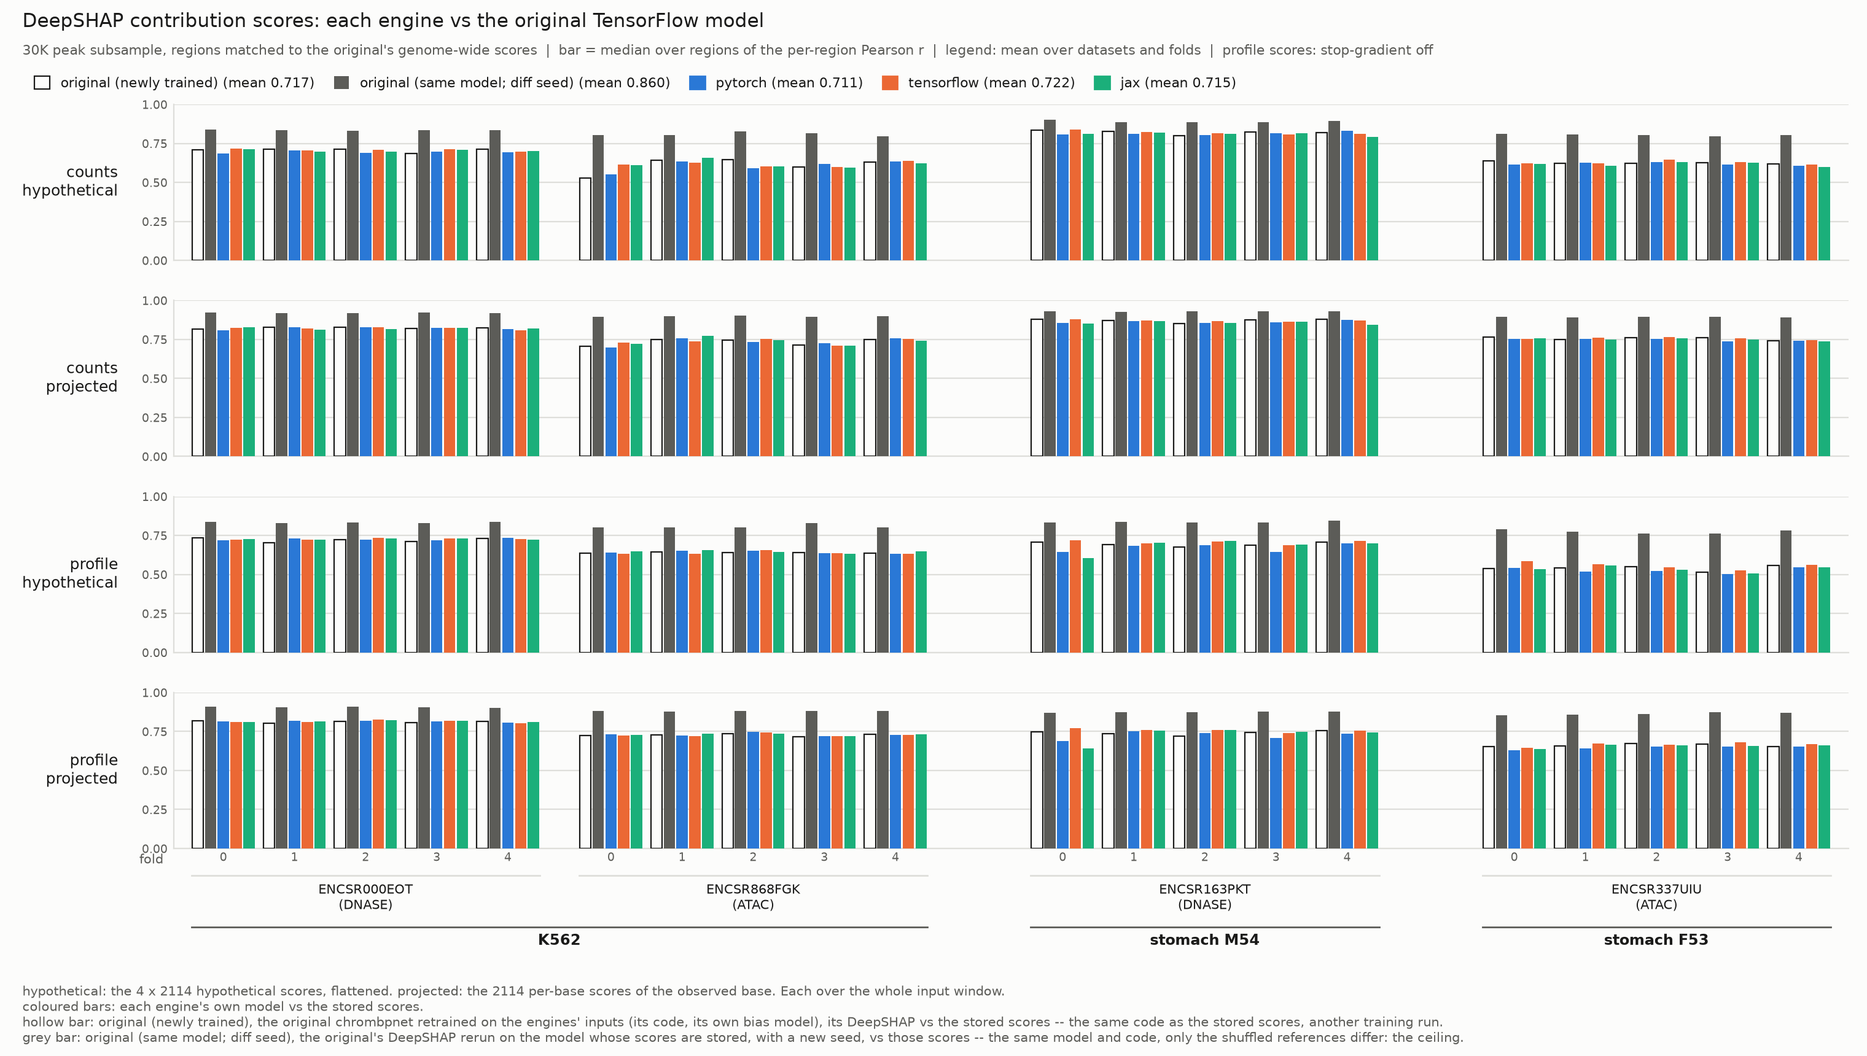
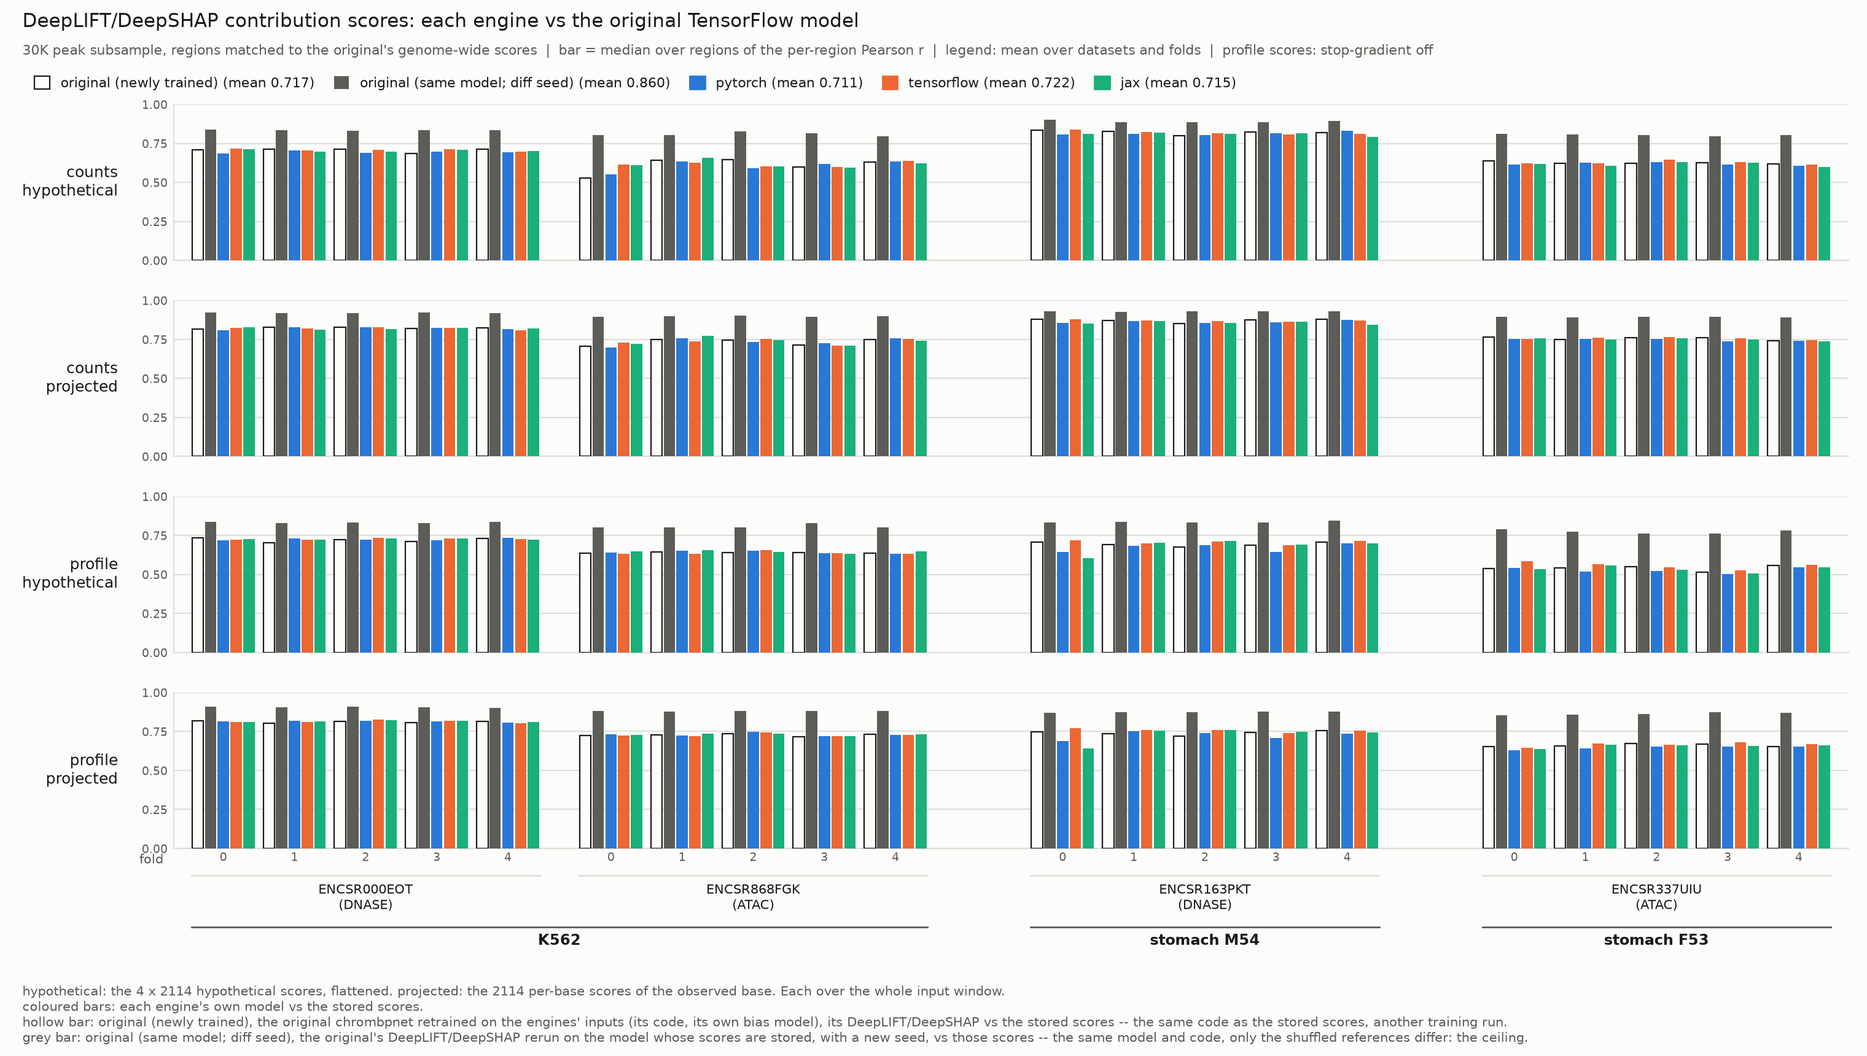
Draft v3: Updated figures and minor changes.

Changed region(s): [[0.2188, 0.9552, 0.8125, 0.986], [0.0312, 0.0, 0.4688, 0.0308]]

diff --git a/content/blogs/2026-015/index.md b/content/blogs/2026-015/index.md
@@ -151,19 +151,19 @@ __Problem__: Anthropic’s optimizations focused on drop-in optimization kits th
 
 Below is a summary of changes applied in the [optimization kit](https://github.com/anthropics/uplifting-biomolecular-modeling/tree/main/chrombpnet) from the model release of Fable/Mythos 5.1:
 
-| Kit optimization | What it does | Measured effect (in original `chrombpnet`) | In `chrombpnet-refactor` |
-|---|---|---|---|
-| `prefetch` | Reads the genome through a memory map, and one-hot encodes with an int8 lookup table | Featurization 15x faster (L40S: 3.6 s → 0.2 s; H200: 3.6 s → 0.2 s) | Applied |
-| `metrics_stage` | Computes the profile JSD for all regions at once, with the same random stream | Metrics 10x faster (L40S: 9.8 s → 1.0 s; H200: 9.1 s → 0.9 s) | Applied (identical values) |
-| `bigwig_writer`, side processes | Writes the bigWig and metrics in a separate process, overlapping the GPU forward | The bigWig write moved under the forward (L40S: 23 s → 0.6 s left to wait for; H200: 22 s → 0.6 s) | Applied: a worker process writes each model's bigWig and metrics while the next model predicts |
-| `preimport` | Imports the finish stage's libraries (SciPy, Matplotlib) on a background thread during the forward | 1.3-1.8 s of imports moved under the forward (stock's start-up, which imports TensorFlow, already loads most of them: 0.4 s left at its finish) | Applied |
-| `exit_fast` | Exits without interpreter and CUDA teardown once outputs are verified | Teardown skipped (L40S and H200: 1.2 s → 0 s) | Applied, after every output is verified and synced to disk |
-| `forward_route` (`chrombpnet_k1` Triton kernels) | Fused, fp32-exact Triton forward | The forward 2.3x faster on an L40S (34 s → 15 s, `exact`), 2.6x on an H200 (25 s → 9.5 s, `fast`) [in `chrombpnet-refactor`: no end-to-end speedup alongside the kit's other changes, 121 s with them and 120 s without on an L40S, 114 s and 106 s on an H200; they match eager fp32 to 1.0e-5 on the profile, where the default TF32 convolutions differ from an fp64 reference by 1.1e-3] | Optional, `--predict-fused-kernel` |
-| `h5_writer` | Compresses the predictions HDF5's chunks on a thread pool and writes them directly | The HDF5 write 17x faster on the critical path (L40S: 3.7 s → 0.2 s; H200: 3.4 s → 0.2 s), its chunks compressed during the forward | Applied, at this package's gzip level 9 with the byte-shuffle filter, to every large numeric HDF5 dataset: one 20,000-region predictions file 7.7x faster to write (L40S node: 23.8 s → 3.1 s), same size and values |
-| `malloc_env` | glibc allocator settings: no `mmap`, no heap trimming, a 512 MiB top pad | – | Not applied: the speed-up is moderate (`pred_bw` 1.06x faster on an L40S, 76 s → 72 s; 1.12x on an H200, 66 s → 59 s), but peak memory doubles (2,000 peaks, three models: 5.0 GB → 9.8-11.7 GB), because with no `mmap` and no trimming every large array is carved out of one heap that never shrinks, and the space an array of one size frees is not reused by the next of another size, so the heap fragments and keeps growing |
-| `warmup`, `jit_cache`, `native_dilation`, `tail` | One forward per batch shape at load time; a CUDA JIT-cache tarball for TensorFlow's PTX; Keras dilated convolutions as native `conv2d`; the last batch padded to the full shape | – | Not applicable: TensorFlow-specific (`jit_cache`, `native_dilation`, and `tail`, which avoids TensorFlow compiling a new shape), or no time saved (`warmup` moves the first call's cost to load time) |
-| **All adopted kit changes** (excluding the Triton forward) | | **1.7x on an L40S (`fast`: 85 s → 50 s); 1.6x on an H100 (the kit's own figure) [in `chrombpnet-refactor`: 1.3x on an L40S (155 s → 120 s), 1.2x on an H200 (128 s → 106 s)]** | Default |
-| **Adding the fused kernels** (with every other optimization, including Section 4's) | | **2.8x on an L40S (`exact`: 85 s → 30 s); 3.7x on an H200 (`fast`, TF32: 76 s → 20 s), 2.6x in fp32 (`exact`: 29 s) [in `chrombpnet-refactor`: 79 s, against 76 s for the default without them, on an L40S (3% slower); 73 s against 66 s on an H200 (10% slower)]** | Optional, `--predict-fused-kernel` |
+| Kit optimization | What it does | Measured effect (vs. original `chrombpnet`) on L40S | On H200 | Applied in `chrombpnet-refactor`? |
+|---|---|---|---|---|
+| `prefetch` | Reads the genome through a memory map; one-hot encodes with an int8 lookup table | Featurization 15x faster (3.6 s → 0.2 s) | 15x (3.6 s → 0.2 s) | ✓ |
+| `metrics_stage` | Computes the profile JSD for all regions at once, with the same random stream | Metrics 10x faster (9.8 s → 1.0 s) | 10x (9.1 s → 0.9 s) | ✓ |
+| `bigwig_writer`, side processes | Writes the bigWig and metrics in a separate process, during the GPU forward | bigWig write hidden under the forward (23 s → 0.6 s left to wait) | 22 s → 0.6 s | ✓ |
+| `preimport` | Imports SciPy and Matplotlib on a background thread during the forward | 1.3 s of imports hidden under the forward | 1.8 s | ✓ |
+| `exit_fast` | Exits without interpreter and CUDA teardown once outputs are verified | Teardown skipped (1.2 s → 0 s) | 1.2 s → 0 s | ✓ |
+| `forward_route` (`chrombpnet_k1` Triton kernels) | Fused, fp32-exact Triton forward | Forward 2.3x faster (34 s → 15 s, `exact`) [refactor: no gain, 120 s → 121 s] | 2.6x (25 s → 9.5 s, `fast`) [refactor: 106 s → 114 s] | Optional (`--predict-fused-kernel`) |
+| `h5_writer` | Compresses the predictions HDF5's chunks on a thread pool and writes them directly | HDF5 write 17x faster on the critical path (3.7 s → 0.2 s) | 14x (3.4 s → 0.2 s) | ✓ (gzip 9 + shuffle, every large HDF5 dataset) |
+| `malloc_env` | glibc allocator settings: no `mmap`, no heap trimming, a 512 MiB top pad | [refactor: 1.06x, 76 s → 72 s] | [refactor: 1.12x, 66 s → 59 s] | ✗ (peak memory doubles: 5.0 → 9.8-11.7 GB) |
+| `warmup`, `jit_cache`, `native_dilation`, `tail` | One forward per batch shape at load time; a CUDA JIT cache for TensorFlow's PTX; dilated convolutions as native `conv2d`; the last batch padded to full size | – | – | – (TensorFlow-specific, or no time saved) |
+| **All adopted kit changes** (excluding the Triton forward) | | **1.7x (`fast`: 85 s → 50 s) [refactor: 1.3x, 155 s → 120 s]** | **– (both kit modes run the Triton kernels) [refactor: 1.2x, 128 s → 106 s]** | ✓ |
+| **Adding the fused kernels** (with every other optimization, including Section 4's) | | **2.8x (`exact`: 85 s → 30 s) [refactor: 3% slower, 76 s → 79 s]** | **3.7x (`fast`, TF32: 76 s → 20 s); 2.6x in fp32 (`exact`: 29 s) [refactor: 10% slower, 66 s → 73 s]** | Optional |
 
 _Original `chrombpnet`: the kit's pinned chrombpnet 1.0.1 with its own model (GM12878 ATAC-seq, fold 0), running `pred_bw` on 20,000 ENCSR868FGK peaks at batch size 256; medians of 5 rounds on an L40S and an H200 (SXM). The kit cannot turn on one change at a time, so each row compares the time of one stage in stock chrombpnet and in the kit's default `fast` mode; for stages the kit runs alongside the forward pass, only the time left waiting counts. The totals compare the kit's modes with `--mode off` (85 s on the L40S, 76 s on the H200). On the L40S, `fast` keeps TensorFlow's forward and `exact` uses the kit's fp32 Triton kernels; on the H200 both modes use the Triton kernels (`fast` in TF32), so the kit's other changes cannot be timed without them there. In brackets, `chrombpnet-refactor`: `pred_bw` with each fold's three models (bias, ChromBPNet, no-bias) on 20,000 ENCSR868FGK peaks (K562 ATAC-seq); medians of 15 runs (5 folds × 3 rounds) against an unoptimized run (155 s on the L40S, 128 s on the H200). Every configuration ran in the same job, after an untimed warm-up and in a different order each round._
 
@@ -173,19 +173,19 @@ While the kit's speedup is very useful for users of the original package (1.7x o
 
 Further, we have implemented several additional optimizations in the pre- and post-processing workflows, including vectorized GC-matched non-peak selection, faster and smaller BigWigs with fixed-step sections, a shared, cleaner command line, and one random seed per command for deterministic reproducibility:
 
-| Change | What it does | Measured effect |
-|---|---|---|
-| Shared inputs across models (`pred_bw`) | Featurizes the regions and reads the observed bigWig once for all models | 2 of 3 featurization passes and observed-bigWig reads removed; 2.9x faster (L40S: 13.0 s → 4.5 s; H200: 12.8 s → 4.4 s) |
-| Fixed-step bigWigs | The same values, written as fixed-step sections instead of variable-step ones | Files 1.5x smaller (158 MB → 109 MB); 3.1x faster (L40S: 21.2 s → 6.8 s; H200: 19.6 s → 6.2 s) |
-| NumPy bigWig writer arguments | Builds the writer's arguments as arrays | 1.1x faster (L40S: 21.2 s → 19.7 s; H200: 19.6 s → 18.2 s) |
-| Batched cast into a preallocated output | Casts and transposes each batch as it is needed | 714 MB less peak memory (20,000 regions); 1.0-1.1x faster (L40S: 15.1 s → 15.1 s; H200: 6.3 s → 5.9 s) |
-| **All of the above** (`pred_bw`, without the kit's changes) | | **1.6-1.7x faster (L40S: 155 s → 97 s; H200: 128 s → 76 s)** |
-| **Together with the kit's changes** | | **1.9-2.0x faster (L40S: 155 s → 77 s; H200: 128 s → 66 s)** |
-| Maximum HDF5 compression (the default) | Writes `*_predictions.h5`, `*_scores.h5`, `*_footprints.h5` and TF-MoDISco's results at gzip level 9 (was 4), with the byte-shuffle filter on numeric data; identical values | Files 1.2x smaller (one model's predictions for 20,000 peaks: 92 MB → 76 MB); written on threads (the kit's `h5_writer`, Section 3), 7.5-7.7x faster than gzip 9 on one thread (L40S: 23.8 s → 3.1 s; H200: 21.9 s → 2.9 s), so `pred_bw` is no slower for it (L40S: 77 s → 76 s; H200: 66 s → 66 s) |
-| **Fully optimized `chrombpnet-refactor` (the default) vs. original `chrombpnet`** | Every optimization above and in Section 3, against chrombpnet 1.x (TensorFlow 2.8) on its own models, in the same job | **2.6x faster (L40S: 194 s → 76 s; H200: 168 s → 66 s)** |
-| GC-matched non-peaks (`prep nonpeaks`: a separate, CPU-only command, run once per fold before training, so not part of `pred_bw`'s times above) | Candidates as compact arrays, shuffled once per fold, sorted by GC bin and drawn without replacement, with a binary search for the nearest non-empty bin | Peak memory 1.3 GB → 0.4 GB; the matching step 52-54x faster (L40S node: 200 s → 3.7 s; H200 node: 192 s → 3.7 s). Fails with an error where the original could loop forever |
-| One `-s/--seed` per command | Every random draw of a command (negatives, initial weights, jitter, the interpretation subsample, DeepSHAP references) follows it | Two runs with the same seed and flags give identical outputs on the CPU |
-| Command line | One shared, framework-neutral pipeline behind `--engine` and `--device`; options validated before any output directory is created | – |
+| Change | What it does | Measured effect on L40S | On H200 |
+|---|---|---|---|
+| Shared inputs across models (`pred_bw`) | Featurizes the regions and reads the observed bigWig once for all models | 2.9x faster (13.0 s → 4.5 s) | 2.9x (12.8 s → 4.4 s) |
+| Fixed-step bigWigs | The same values, written as fixed-step instead of variable-step sections | 3.1x faster (21.2 s → 6.8 s); files 1.5x smaller (158 → 109 MB) | 3.1x (19.6 s → 6.2 s) |
+| NumPy bigWig writer arguments | Builds the writer's arguments as arrays | 1.1x faster (21.2 s → 19.7 s) | 1.1x (19.6 s → 18.2 s) |
+| Batched cast into a preallocated output | Casts and transposes each batch as it is needed | 1.0x (15.1 s → 15.1 s); 714 MB less peak memory | 1.1x (6.3 s → 5.9 s) |
+| **All of the above** (`pred_bw`, without the kit's changes) | | **1.6x faster (155 s → 97 s)** | **1.7x (128 s → 76 s)** |
+| **Together with the kit's changes** | | **2.0x faster (155 s → 77 s)** | **1.9x (128 s → 66 s)** |
+| Maximum HDF5 compression (the default) | `*_predictions.h5`, `*_scores.h5`, `*_footprints.h5` and TF-MoDISco's results at gzip 9 (was 4) with byte-shuffle; identical values | Files 1.2x smaller (92 → 76 MB); written on threads, 7.7x faster than on one (23.8 s → 3.1 s), so `pred_bw` is no slower (77 s → 76 s) | 7.5x (21.9 s → 2.9 s); `pred_bw` 66 s → 66 s |
+| **Fully optimized `chrombpnet-refactor` (the default) vs. original `chrombpnet`** | Every optimization above and in Section 3, vs. chrombpnet 1.x (TensorFlow 2.8) on its own models, in the same job | **2.6x faster (194 s → 76 s)** | **2.6x (168 s → 66 s)** |
+| GC-matched non-peaks (`prep nonpeaks`: a separate, CPU-only command, run once per fold before training; not part of `pred_bw`) | Candidates as compact arrays, shuffled once per fold, sorted by GC bin and drawn without replacement, with a binary search for the nearest non-empty bin | Matching 54x faster (200 s → 3.7 s); peak memory 1.3 → 0.4 GB; fails with an error where the original could loop forever | 52x (192 s → 3.7 s) |
+| One `-s/--seed` per command | Every random draw (negatives, initial weights, jitter, interpretation subsample, DeepLIFT/DeepSHAP references) follows it | Same seed and flags: identical outputs on the CPU | – |
+| Command line | One shared, framework-neutral pipeline behind `--engine` and `--device`; options validated before any output directory is created | – | – |
 
 _The bold `pred_bw` rows come from the same runs as the bracketed numbers in Section 3 (5 folds × 3 rounds, one job per GPU, the original package included). The other rows time one change at a time, old version against new, on fold 0: each in a fresh process, in a different order each round, medians of 3 rounds (2 for GC matching). CPU-only steps, including `prep nonpeaks`, depend on each GPU node's CPUs. HDF5 sizes are for one model's `*_predictions.h5` for 20,000 peaks._
 
@@ -195,16 +195,16 @@ Against the original ChromBPNet (TensorFlow 2.8, as shipped), on the same GPU (a
 |---|---|---|---|
 | `pred_bw`: 3 models, 20,000 peaks; predicted bigWigs, predictions HDF5, metrics against the observed bigWig | 194 s | 76 s (2.6x) | – (no equivalent) |
 | ↳ head-to-head: one model's predictions over the 20,000 peaks, scored against the observed bigWig; nothing written (cherimoya `evaluate`) | 54 s | 29 s (1.8x) | 15 s (3.6x) |
-| `contribs_bw`: DeepSHAP on the profile head, 2,000 peaks; scores HDF5 and bigWig | 341 s | 257 s (1.3x) | – (no equivalent) |
+| `contribs_bw`: DeepLIFT/DeepSHAP on the profile head, 2,000 peaks; scores HDF5 and bigWig | 341 s | 257 s (1.3x) | – (no equivalent) |
 | ↳ head-to-head: the attributions alone, 20 shuffled references per sequence; nothing written (cherimoya `attribute`) | 334 s | 252 s (1.3x) | 161 s (2.1x) |
 
-_In parentheses: the speedup over the original ChromBPNet. `pred_bw`: the same runs as in Sections 3 and 4. `contribs_bw` and the head-to-head rows: one job over the same 5 folds, medians of 15 runs (5 folds × 3 rounds) per command, each after an untimed warm-up and in a different order each round. cherimoya 0.3.1 (PyTorch 2.13, in a container on our cluster) ran its own commands on the same inputs with CATv1's ENCSR868FGK models, which use the same folds; medians of 15 runs (5 folds × 3 rounds) after an untimed warm-up, which also compiles its kernels (2-7 minutes the first time on a machine). Its `evaluate` predicts with one model (cherimoya has no bias factorization) and writes only a table of metrics; its `attribute` uses DeepLIFT/SHAP with 20 dinucleotide-shuffled references per sequence, as chrombpnet's DeepSHAP does, and writes NumPy arrays. In the head-to-head rows, chrombpnet's `pred_bw` uses the full model only._
+_In parentheses: the speedup over the original ChromBPNet. `pred_bw`: the same runs as in Sections 3 and 4. `contribs_bw` and the head-to-head rows: one job over the same 5 folds, medians of 15 runs (5 folds × 3 rounds) per command, each after an untimed warm-up and in a different order each round. cherimoya 0.3.1 (PyTorch 2.13, in a container on our cluster) ran its own commands on the same inputs with CATv1's ENCSR868FGK models, which use the same folds; medians of 15 runs (5 folds × 3 rounds) after an untimed warm-up, which also compiles its kernels (2-7 minutes the first time on a machine). Its `evaluate` predicts with one model (cherimoya has no bias factorization) and writes only a table of metrics; its `attribute` uses DeepLIFT/DeepSHAP with 20 dinucleotide-shuffled references per sequence, as chrombpnet's DeepLIFT/DeepSHAP does, and writes NumPy arrays. In the head-to-head rows, chrombpnet's `pred_bw` uses the full model only._
 
 ## Reproducibility: Confirming parity with the original ChromBPNet
 
 Given all the changes, we confirmed performance parity with the original [ChromBPNet](https://github.com/kundajelab/chrombpnet/) based on reproducibility on: (1) test set chromosome performance, and (2) model interpretation via DeepLIFT/DeepSHAP contribution scores.
 
-Reproducibility of model performance is evidently important. Comparing the performance of the models trained on the refactored codebase (using the default `both-half` convention for DNase-seq), across all 3 deep learning engines (PyTorch, TensorFlow, JAX) against the (pretrained) original ChromBPNet model and an original ChromBPNet model retrained with the original codebase (the run-to-run reference): we observe near-perfect reproducibility across all 3 engines, in ATAC-seq and DNase-seq, in cell lines (K562) and primary cells (stomach), on counts/profile head performance, across all 5 chromosome folds. DNase-seq profile scores rise (K562: 0.44 to 0.56; stomach: 0.36 to 0.46, 1 - JSD) because the refactored models are trained and evaluated on the `both-half` signal: the original model scores the same 0.56 on that test set (cross-evaluation above), so the gain reflects the evaluation target rather than a better model.
+Reproducibility of model performance is evidently important. Comparing the performance of the models trained on the refactored codebase (using the default `both-half` convention for DNase-seq), across all 3 deep learning engines (PyTorch, TensorFlow, JAX) against the (pretrained) original ChromBPNet model and an original ChromBPNet model retrained with the original codebase (the run-to-run reference): we observe near-perfect reproducibility across all 3 engines, in ATAC-seq and DNase-seq, in cell lines (K562) and primary cells (stomach), on counts/profile head performance, across all 5 chromosome folds. DNase-seq profile scores rise (K562: 0.33 to 0.48; stomach: 0.23 to 0.35, 1 - JSD) because the refactored models are trained and evaluated on the `both-half` signal: the original model scores as well on that test set (cross-evaluation above), so the gain reflects the evaluation target rather than a better model.
 
 ![Figure: Refactored ChromBPNet vs. original ChromBPNet: Test set performance.](chrombpnet_engine_performance.png "width=600 Comparing test set performance of the original ChromBPNet model vs. a retrained original ChromBPNet model and 3 refactored ChromBPNet models on all 3 deep learning engines: PyTorch, TensorFlow, JAX. `original`: The original ChromBPNet model trained as part of ENCODE GRAMMAR. `original (newly trained)`: A newly trained ChromBPNet model using the original codebase. `pytorch`: A refactored ChromBPNet model using PyTorch. `tensorflow`: A refactored ChromBPNet model using TensorFlow. `jax`: A refactored ChromBPNet model using JAX.")
 
@@ -230,11 +230,9 @@ To assess the reproducibility of distillation to match ensembling, we repeat the
 
 ![Figure: Ensembled (5-fold) ChromBPNet vs. Distilled Student ChromBPNet: Reproduciblity of test set predictions & DeepLIFT/DeepSHAP contribution scores.](chrombpnet_distill_ensemble_student.png "width=600 Predictions (top) and DeepLIFT/DeepSHAP scores (bottom) of each model against the 5-fold ensemble mean, on ~10,000 shared peaks per dataset (higher = more reproducible). `fold model`: one fold model, against the 5-fold mean it is part of. `LOFO student`: distilled from the 5 fold models on fold k's training chromosomes. `final student`: distilled on every chromosome.")
 
-Lastly, we also introduce a minor change to model checkpoint selection criteria during validation, incorporating the actual metrics used during final evaluation: Pearson r and Jensen-Shannon distance.
-
 With the new updates, we again repeat the prediction and contribution score reproducibility analysis above and observe similar reproducibility—confirming the reliability of the updates.
 
-![Figure: Original ChromBPNet vs. `chrombpnet-refactor (default)` vs. `chrombpnet-refactor (updated)`: Test set predictions & DeepLIFT/DeepSHAP contribution scores.](chrombpnet_refactor_default_updated.png "width=600 Test set performance (top) and DeepLIFT/DeepSHAP scores against the original's 5-fold mean (bottom). `original`: the original TensorFlow model; `original (newly trained)`: retrained with the original codebase. `chrombpnet-refactor (default)`: backward compatible. `chrombpnet-refactor (updated)`: profile-only bias model and Pearson r/JSD checkpoint selection. `student-lofo`, `student-final`: the distilled students above.")
+![Figure: Original ChromBPNet vs. `chrombpnet-refactor (default)` vs. `chrombpnet-refactor (updated)`: Test set predictions & DeepLIFT/DeepSHAP contribution scores.](chrombpnet_refactor_default_updated.png "width=600 Test set performance (top) and DeepLIFT/DeepSHAP scores against the original model's (bottom). `original`: the original TensorFlow model; `original (newly trained)`: retrained with the original codebase (white); `original (same model; diff seed)`: the original model rescored with another seed (grey). `chrombpnet-refactor (default)`: backward compatible (`pytorch` above). `chrombpnet-refactor (updated)`: profile-only bias model and Pearson r/JSD checkpoint selection.")
 
 ## [`chrombpnet-refactor`](https://github.com/kundajelab/chrombpnet-refactor/)
 
